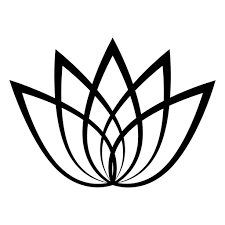
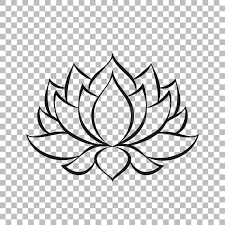
tercer desafio 1º mod.

diff --git a/src/components/Navbar/Index.jsx b/src/components/Navbar/Index.jsx
@@ -1,5 +1,6 @@
 import { HStack, Spacer, Link } from "@chakra-ui/react";
-import logo from "../../assets/flor1.jfif"
+import logo from "../../assets/flor.png"
+import { Card } from "./Card";
 
 const Navbar = () => {
     return (
@@ -12,6 +13,8 @@ const Navbar = () => {
                 <Link>Oferts</Link>
                 <Link>Contact</Link>
             </HStack>
+            <Spacer />
+            <Card />
         </HStack>
     )
 }

diff --git a/src/components/App.jsx b/src/components/App.jsx
@@ -1,13 +1,13 @@
 import Header from "./Header"
 import Footer from "./Footer"
-import Main from "./Main"
 import { ChakraProvider } from "@chakra-ui/react";
+import ItemListConteiner from "./ItemListConteiner";
 
 function App() {
     return (
         <ChakraProvider>
             <Header />
-            <Main nombre="Fede"/>
+            <ItemListConteiner nombre="Fede"/>
             <Footer />
         </ChakraProvider>
     )

diff --git a/src/components/ItemListConteiner.jsx b/src/components/ItemListConteiner.jsx
@@ -1,0 +1,14 @@
+import { Box, Heading } from "@chakra-ui/react";
+
+const ItemListConteiner = (props) => {
+    console.log(props)
+    return (
+        <Box>
+            <Heading bg="lightgreen">
+                Bienvenido {props.nombre}
+            </Heading>
+        </Box>
+    )
+}
+
+export default ItemListConteiner;

diff --git a/src/components/Navbar/Card.jsx b/src/components/Navbar/Card.jsx
@@ -1,0 +1,12 @@
+import { Box } from "@chakra-ui/react";
+import carrito from "../../assets/carrito.png"
+import { Link } from "@chakra-ui/react";
+
+const Card = () => {
+    return (
+        <Box>
+            <Link><img src={carrito} width="100px" alt="" /></Link>
+        </Box>
+    )
+}
+export { Card };
